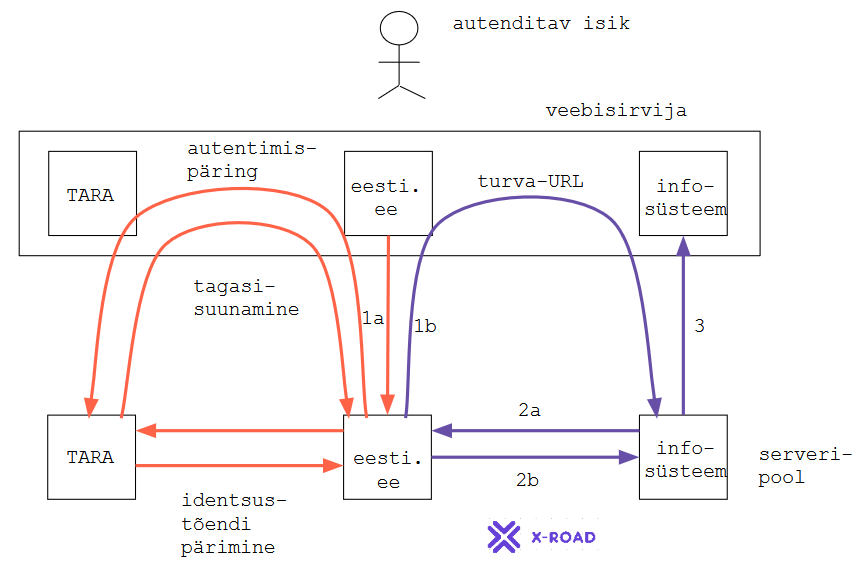
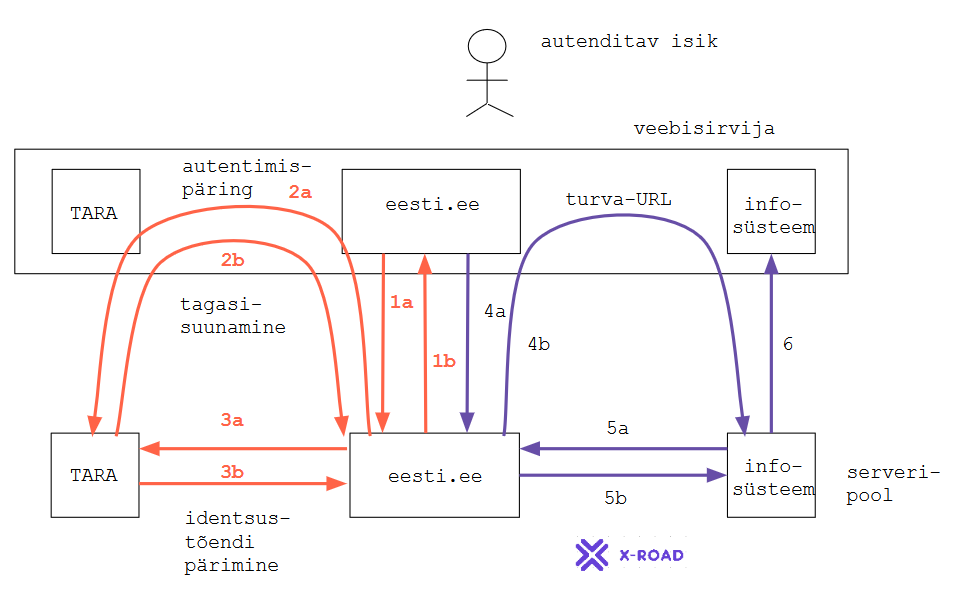
+

diff --git a/Legacy.md b/Legacy.md
@@ -45,6 +45,8 @@ Joonis 1. Autentimisteenuse TARA ja "Legacy" autentimise ühitamine eesti.ee-s.
 6   | Infosüsteem kontrollib, kas saabunud URL on see, mida ta on väljastanud, loob kasutajale sessiooni ja saadab veebisirvijasse rakenduse avalehe.
     | Kasutaja alustab (sisselogitult) tööd infosüsteemis.
 
+Märkus. Sammud 1a "Logi sisse" ja 4a "Mine infosüsteemi" saab ühitada. S.t infosüsteemi siseneda sooviv autentimata kasutaja saadatakse enne autentima.
+
 ## Turvahinnang
 
 eesti.ee ja infosüsteem suhtlevad X-teel, seega omavad usaldusväärseid identiteete. Vahetatavad sõnumid (2a ja 2b) on allkirjastatud. URL-is sisalduv juhuslik URL, sisuliselt nonss, toimib taasesitus- ja päringuvõltsimisrünnete tõkkena. Skeem on turvaline.
